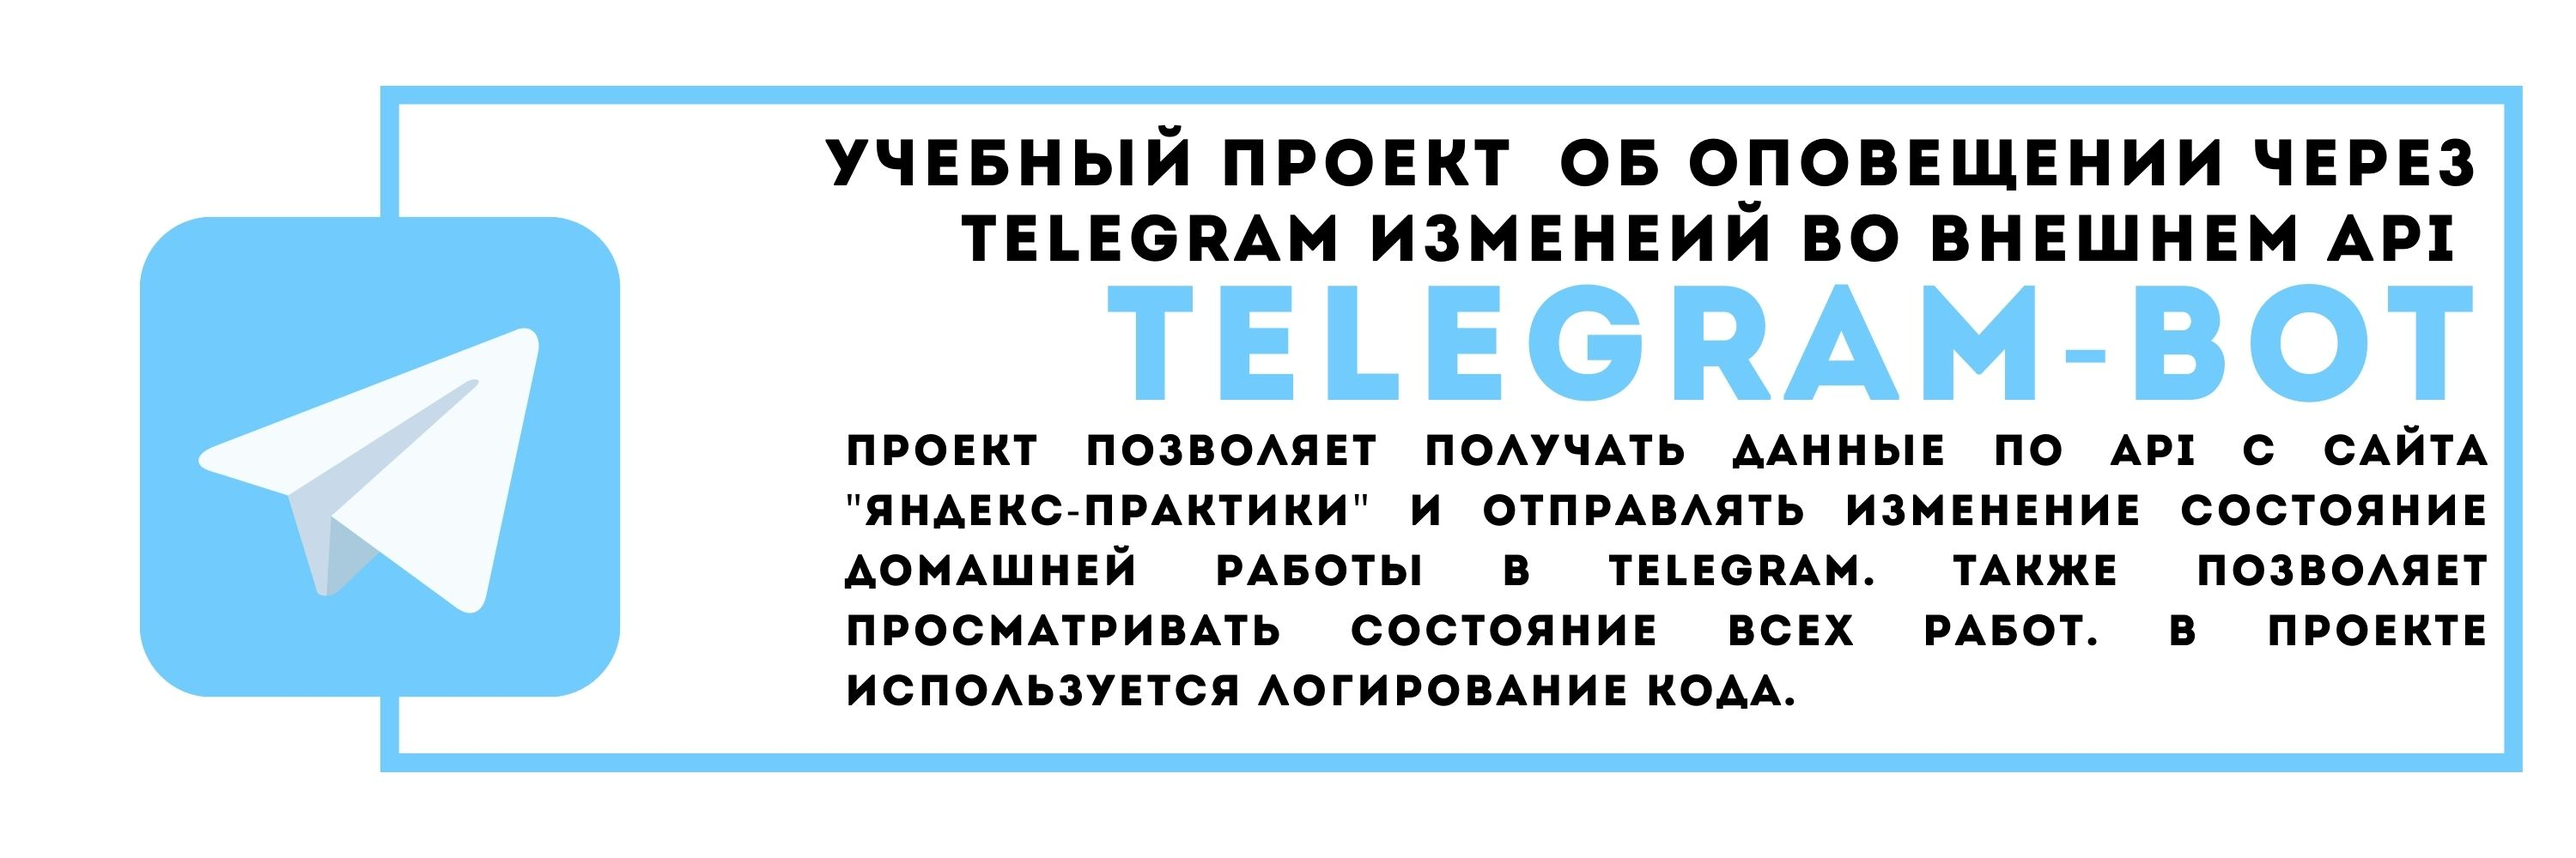
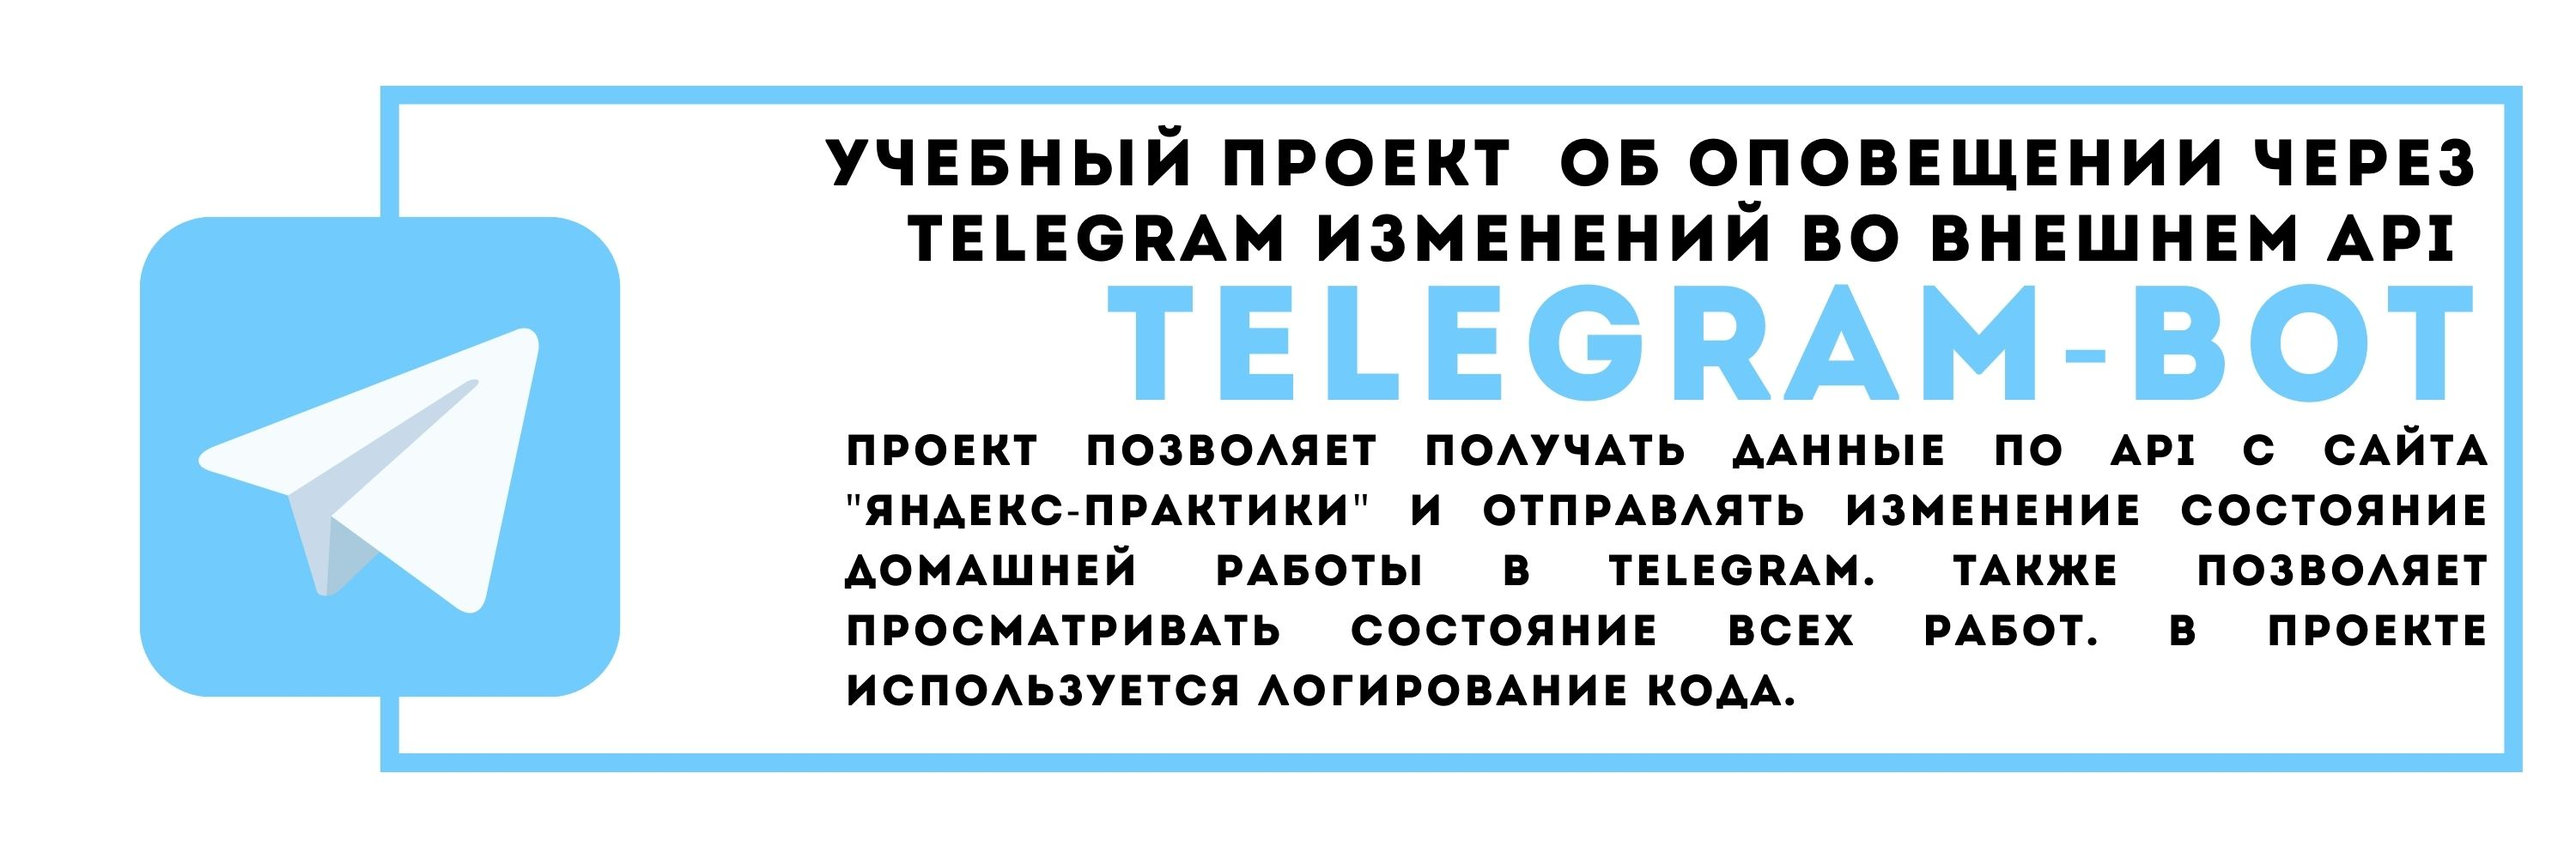
Education version

Changed region(s): [[0.341, 0.248, 0.651, 0.31]]

diff --git a/README.md b/README.md
@@ -1,5 +1,5 @@
 ![Документация](head.jpg)
-## учебный проект  об оповещении через telegram изменеий во внешнем API 
+## учебный проект  об оповещении через telegram изменений во внешнем API 
 
 ### Краткое описание
 Проект позволяет получать данные по API c сайта "Яндекс-практики". Производит проверку и обработку полученных
